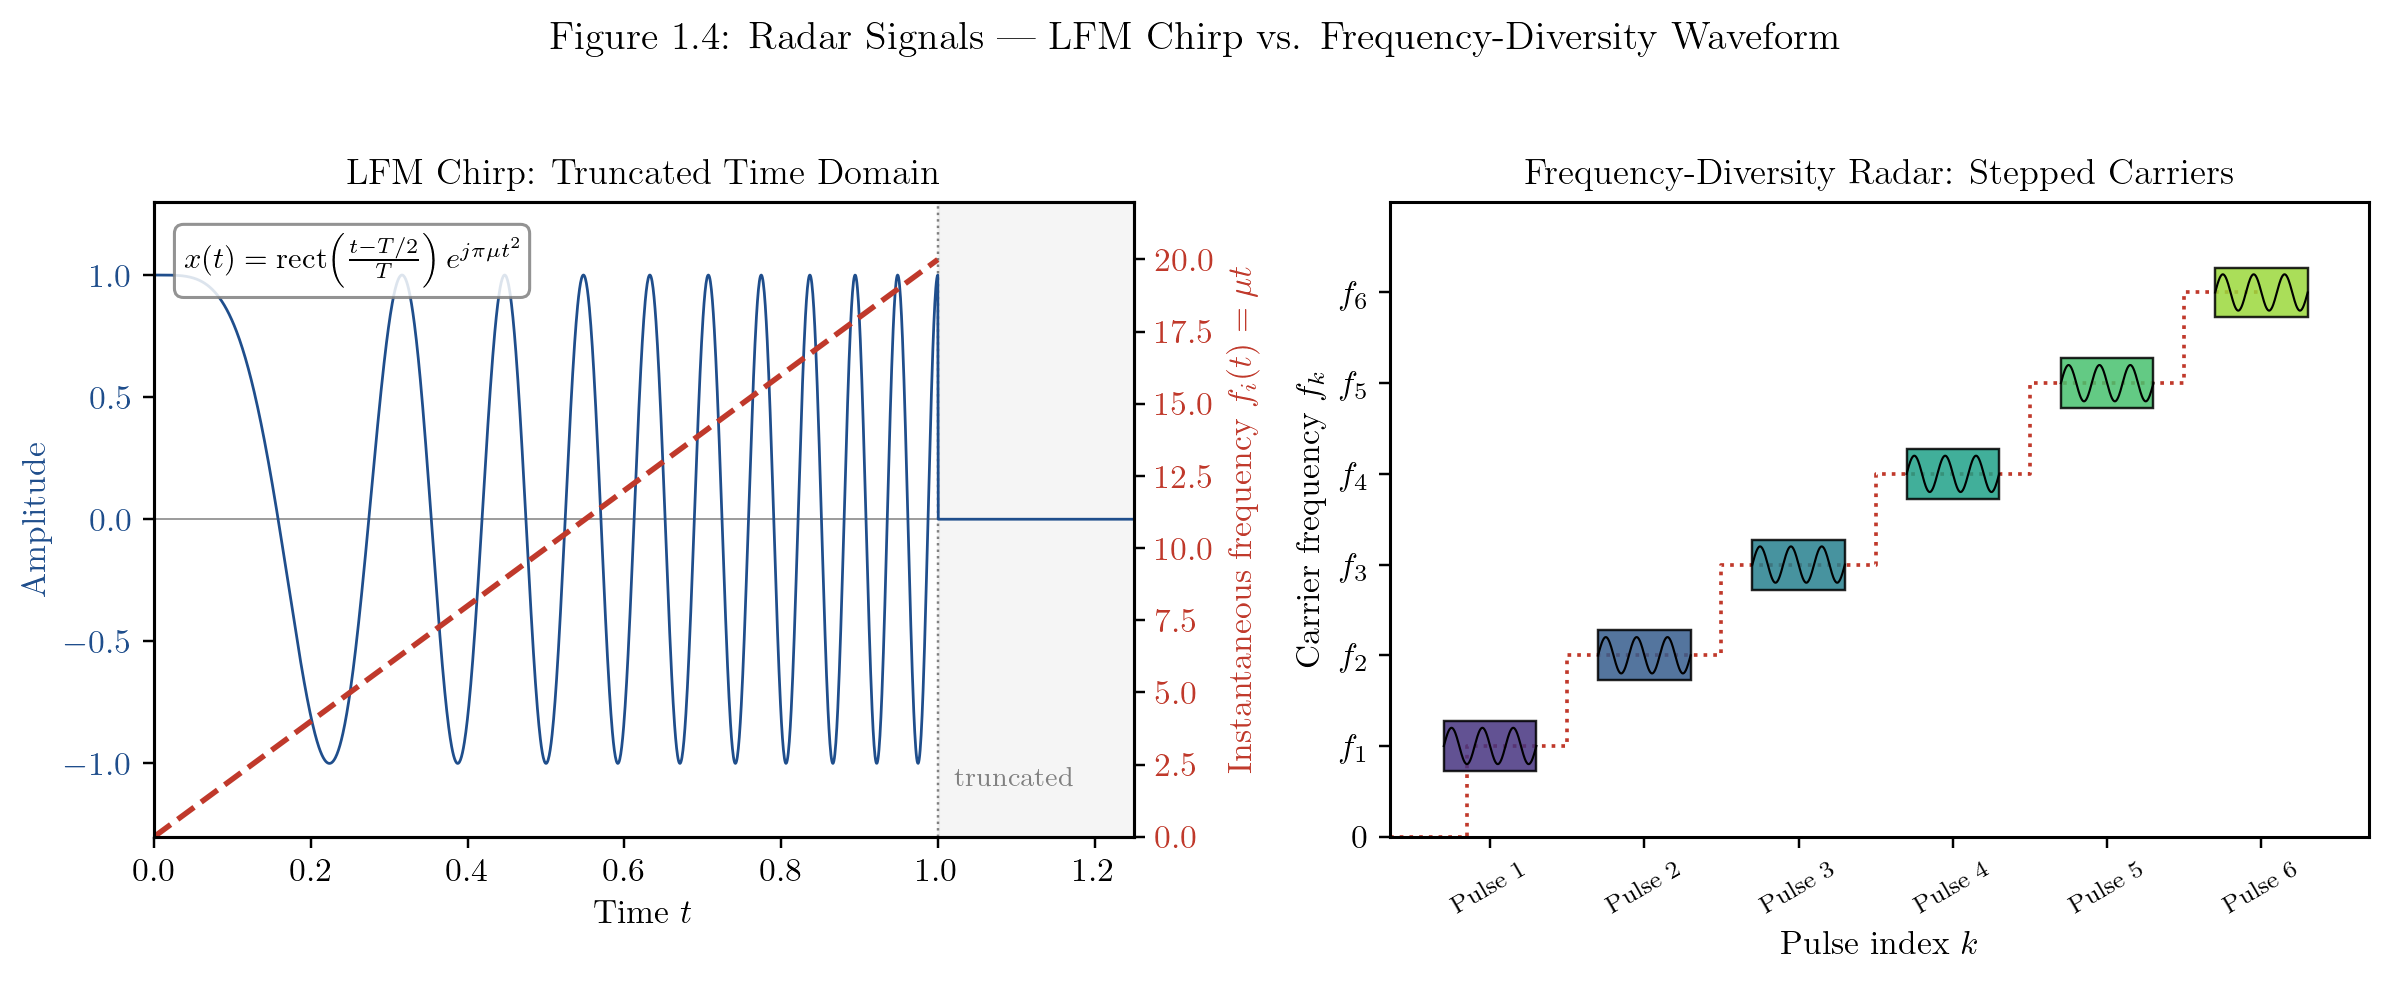
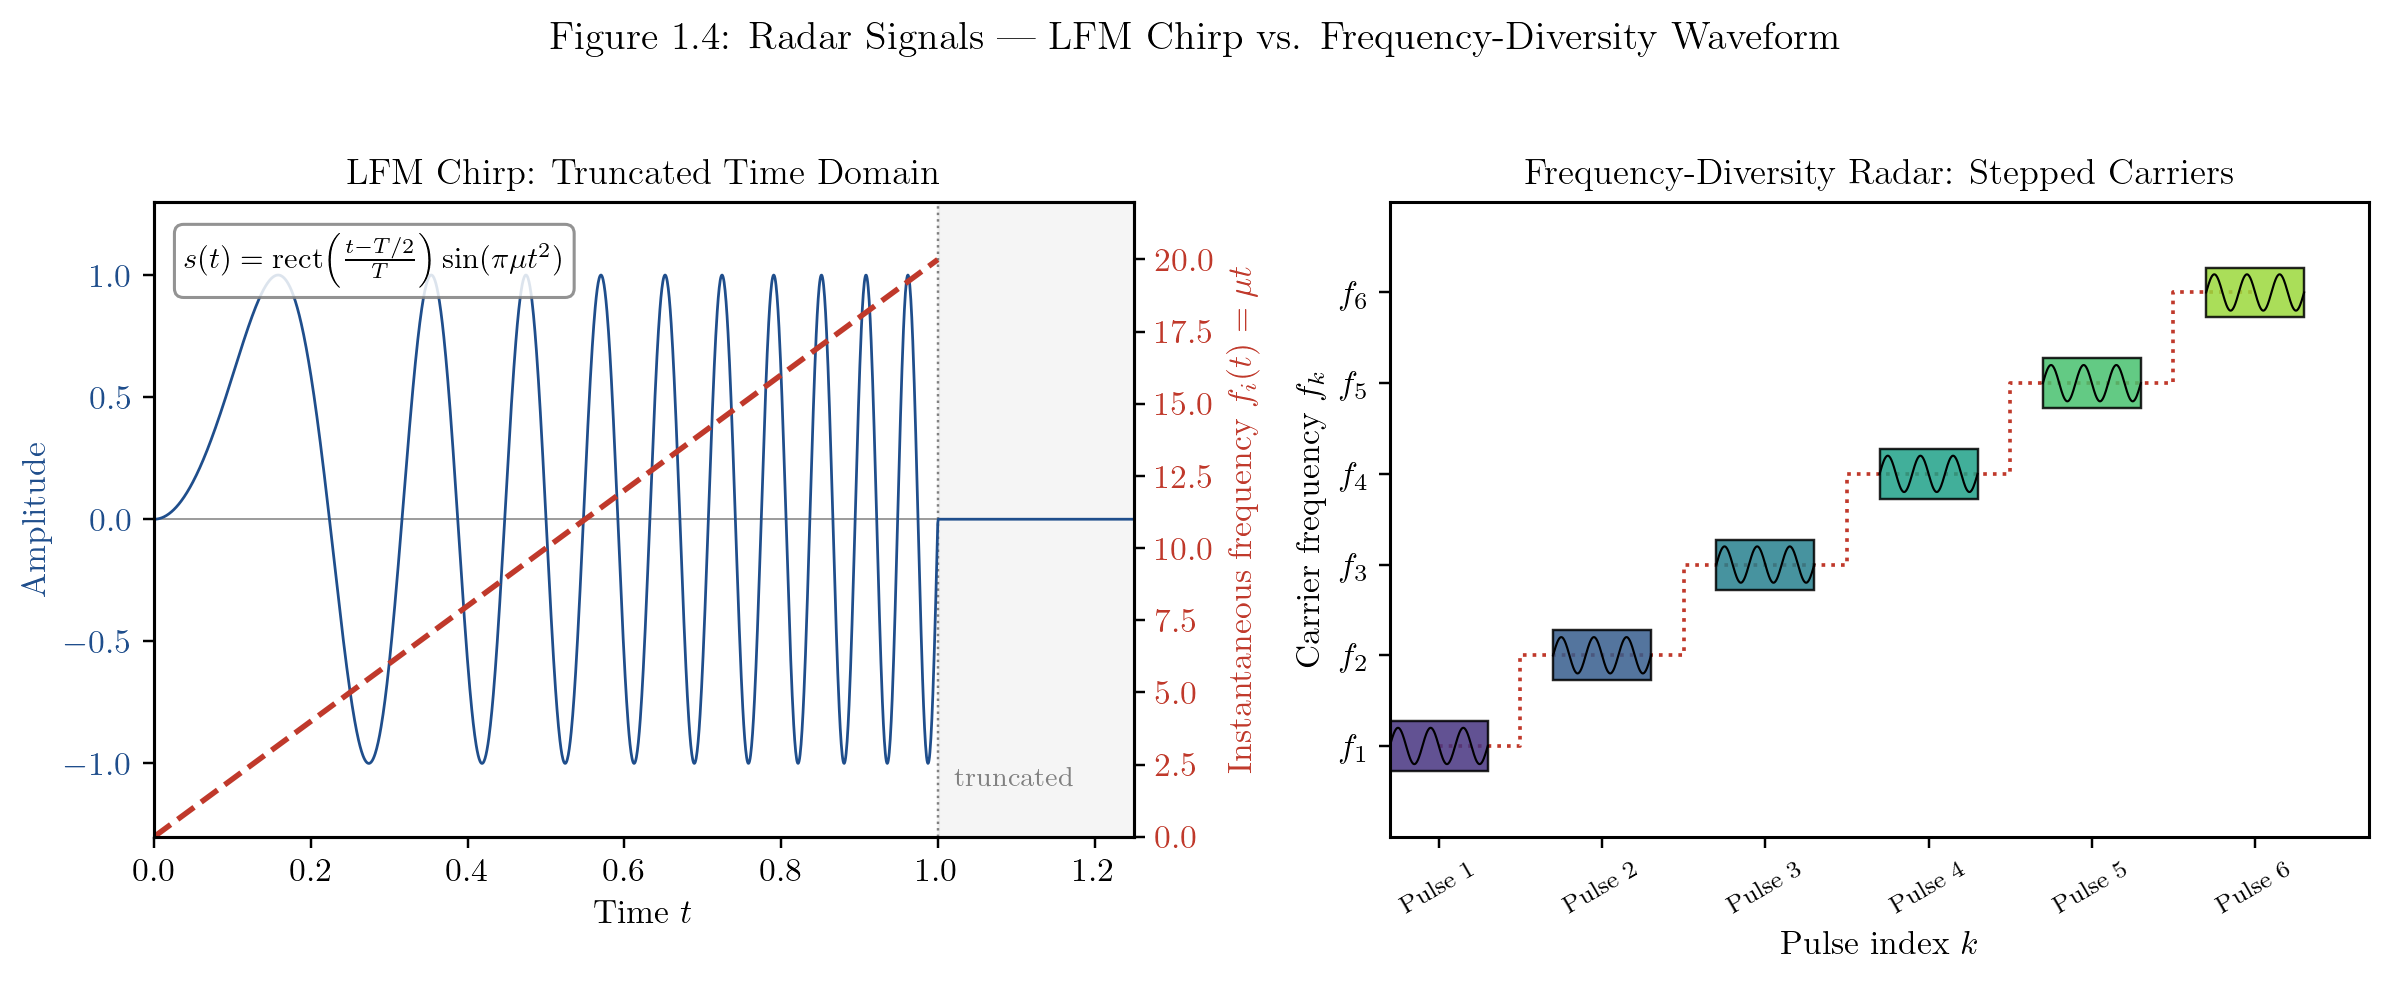
update

diff --git a/CourseADSP2026/Python/fig 1_4.py b/CourseADSP2026/Python/fig 1_4.py
@@ -32,7 +32,7 @@ fs = 2000
 t = np.linspace(0, 1.25 * T, fs)
 pulse_mask = t <= T
 
-chirp_untruncated = np.cos(np.pi * mu * t ** 2)
+chirp_untruncated = np.sin(np.pi * mu * t ** 2)
 chirp = np.where(pulse_mask, chirp_untruncated, 0.0)  # rectangularly truncated waveform
 f_inst = np.where(pulse_mask, mu * t, np.nan)         # only defined inside the pulse
 
@@ -55,7 +55,7 @@ ax1b.set_ylim(0, B * 1.1)
 
 ax1.text(
     0.03, 0.95,
-    r"$x(t)=\mathrm{rect}\!\left(\frac{t-T/2}{T}\right)e^{j\pi\mu t^2}$",
+    r"$s(t)=\mathrm{rect}\!\left(\frac{t-T/2}{T}\right)\sin(\pi\mu t^2)$",
     transform=ax1.transAxes, fontsize=10, va="top", ha="left",
     bbox=dict(boxstyle="round", fc="white", ec="gray", alpha=0.85),
 )
@@ -73,12 +73,11 @@ ax1.text(
 n_pulses = 6
 pulse_width = 0.6
 gap = 0.4
-initial_gap = 0.35
 freqs = np.arange(1, n_pulses + 1) * 8   # f_1, f_2, ..., f_K (stepped carriers)
 colors = plt.cm.viridis(np.linspace(0.15, 0.85, n_pulses))
 
 for i, f in enumerate(freqs):
-    t0 = initial_gap + i * (pulse_width + gap)
+    t0 = i * (pulse_width + gap)
 
     # pulse envelope (rectangle) at its carrier frequency level
     rect = patches.Rectangle(
@@ -94,23 +93,21 @@ for i, f in enumerate(freqs):
 
 # dotted staircase guide connecting successive carrier frequencies
 centers = np.array([
-    initial_gap + i * (pulse_width + gap) + pulse_width / 2
+    i * (pulse_width + gap) + pulse_width / 2
     for i in range(n_pulses)
 ])
-step_x = np.concatenate(([0, initial_gap], centers))
-step_y = np.concatenate(([0, 0], freqs))
-ax2.step(step_x, step_y, where="mid", color="#c0392b", linewidth=1.2,
-         linestyle=":", zorder=1)
+ax2.step(centers, freqs, where="mid", color="#c0392b", linewidth=1.2,
+          linestyle=":", zorder=1)
 
-ax2.set_xlim(0, initial_gap + n_pulses * (pulse_width + gap))
+ax2.set_xlim(0, n_pulses * (pulse_width + gap))
 ax2.set_ylim(0, freqs[-1] + 8)
 ax2.set_xlabel("Pulse index $k$")
 ax2.set_ylabel("Carrier frequency $f_k$")
 ax2.set_title("Frequency-Diversity Radar: Stepped Carriers", fontsize=12)
 ax2.set_xticks(centers)
 ax2.set_xticklabels([f"Pulse {i + 1}" for i in range(n_pulses)], fontsize=8, rotation=30)
-ax2.set_yticks(np.concatenate(([0], freqs)))
-ax2.set_yticklabels(["0"] + [f"$f_{{{i+1}}}$" for i in range(n_pulses)])
+ax2.set_yticks(freqs)
+ax2.set_yticklabels([f"$f_{{{i+1}}}$" for i in range(n_pulses)])
 
 fig.suptitle(
     "Figure 1.4: Radar Signals \u2014 LFM Chirp vs. Frequency-Diversity Waveform",